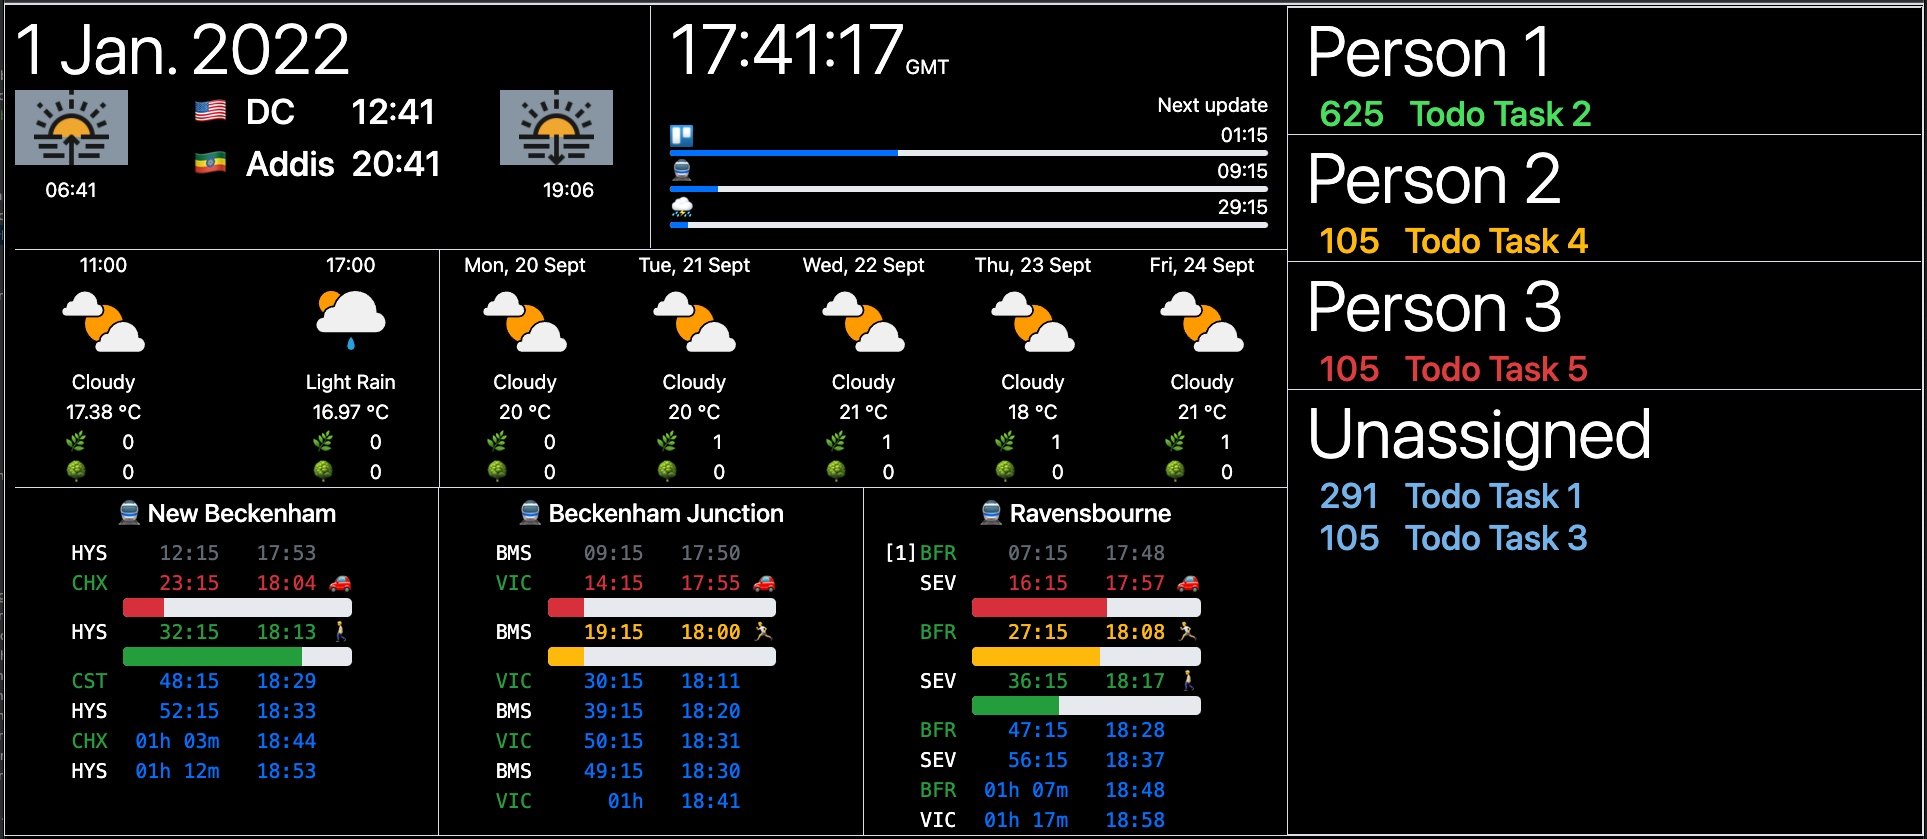
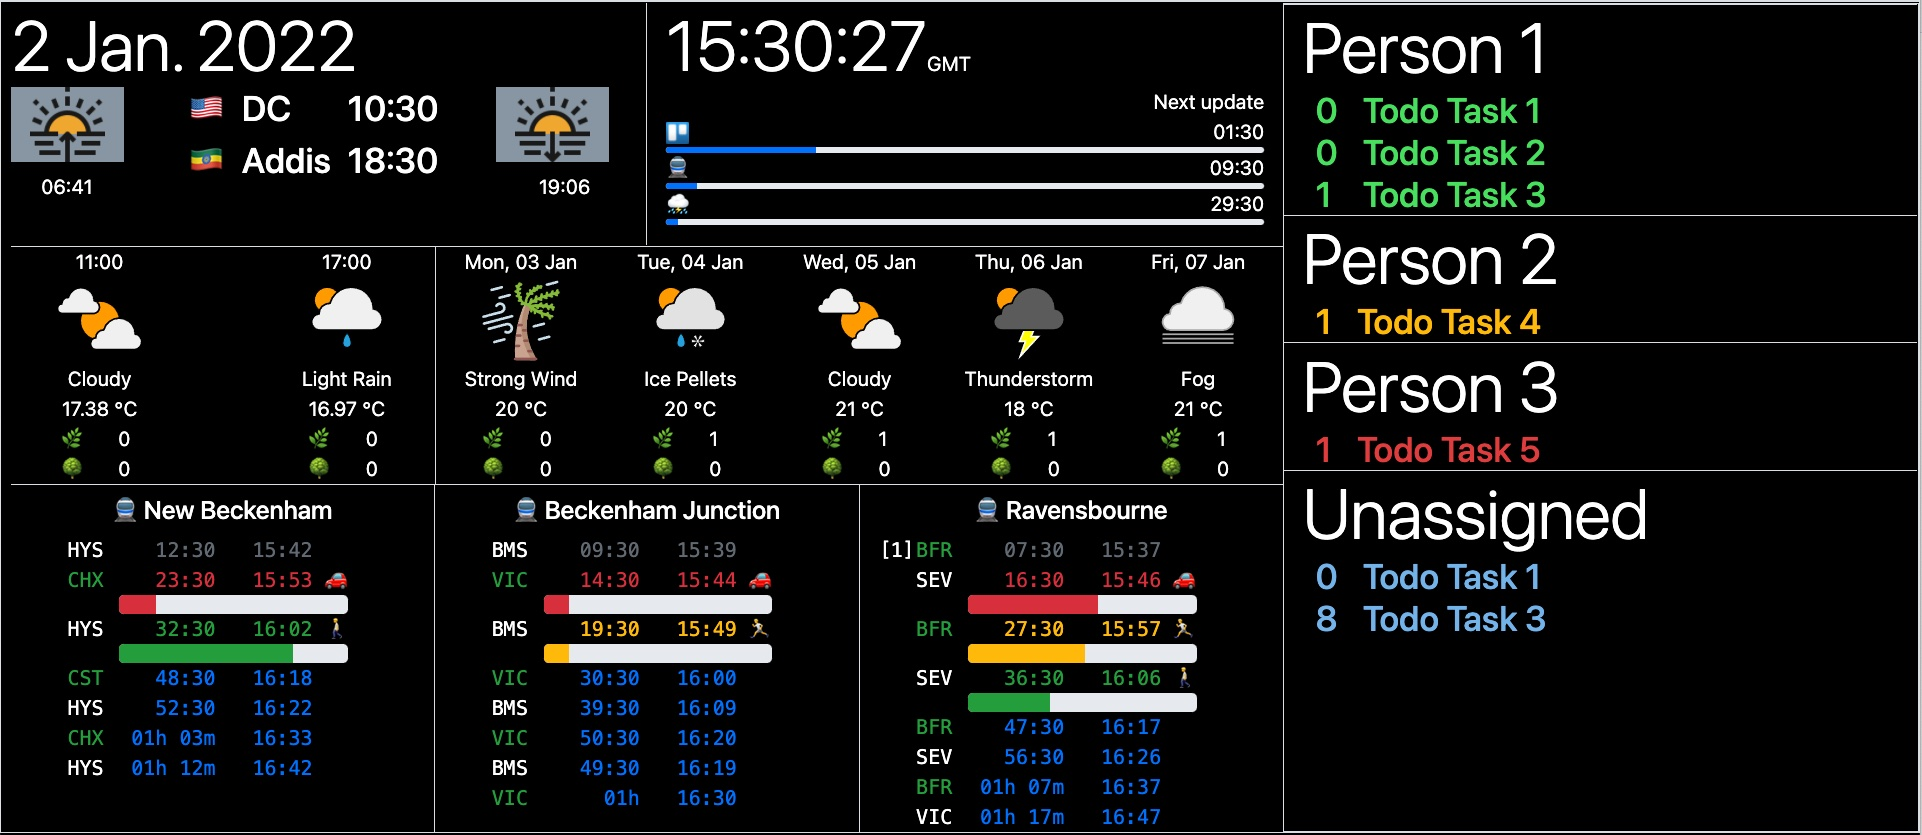
Small refactor, and tidy up of how debug data.

diff --git a/website/js/testing-and-debugging.js b/website/js/testing-and-debugging.js
@@ -78,8 +78,8 @@ function build_link_to_anchors( links ){
 }
 function build_link_toggle_remote_tests(){
     let runningRemoteTests = is_running_remote_tests();
-    let linksList ='<a href="?testing=true&doNotSkipRemoteTests='+ (!runningRemoteTests)+ '">' +(runningRemoteTests?"":"Dont") +
-                                                                                        ' run remote test.</a>';
+    let linksList ='<a href="?testing=true&doNotSkipRemoteTests='+ (!runningRemoteTests)+ '">' +(runningRemoteTests?"Dont r":"R") +
+                                                                                        'un remote test.</a>';
     return linksList;
 }
 
@@ -208,7 +208,7 @@ function set_tasks_on_model_from_remote_data_unit_test(){
         let testResult = (todo.size === 3 &&
                             todo.get('Fikir').length === 1 &&
                             todo.get('Fikir')[0].name === 'Todo Task 1' &&
-                            todo.get('Fikir')[0].dateLastActivity === "2020-04-16T14:12:46.260Z" &&
+                            todo.get('Fikir')[0].daysSinceAssigned === 1 &&
                             todo.get('Unassigned').length === 1 &&
                             todo.get('Henock').length === 2 );
         return {
@@ -221,26 +221,26 @@ function set_tasks_on_model_from_remote_data_unit_test(){
     }
     let data = [{
         name: "Todo Task 1",
-        dateLastActivity: "2020-04-16T14:12:46.260Z",
+        dateLastActivity: "now-24h",
         labels: [{
             name: "Fikir",
         }]
     },{
         name: "Todo Task 1",
-        dateLastActivity: "2020-04-16T14:12:46.260Z",
+        dateLastActivity: "now-10s",
         labels: [{
             name: "Henock",
         }]
     },{
         name: "Todo Task 2",
-        dateLastActivity: "2020-04-16T14:12:46.260Z",
+        dateLastActivity: "now-10s",
         labels: [{
             name: "Henock",
         }]
     },
     {
         name: "Todo Task 1",
-        dateLastActivity: "2021-09-18T15:24:40.921Z",
+        dateLastActivity: "now-200h",
         labels: []
     }]
 
@@ -521,11 +521,11 @@ function common_get_remote_weather_data_unit_test(){
                                 check_for_weather_data, 'not_used', [model, '1d', processResultFunction] );
 
     if(is_running_remote_tests()){
-        result += skip_unit_test( "common_get_remote_weather_data", testCounter, 'a valid response from http://tomorrow.io' );
-    }else{
         model = setup_model(false, false);
         result += run_unit_test( "common_get_remote_weather_data", 'a valid response from http://tomorrow.io',
                                     check_for_weather_data, 'not_used', [model, '1d', processResultFunction] );
+    }else{
+        result += skip_unit_test( "common_get_remote_weather_data", testCounter, 'a valid response from http://tomorrow.io' );
     }
     return result;
 }
@@ -558,10 +558,10 @@ function get_train_station_departures_unit_test(){
     result += run_unit_test( "get_train_station_departures", 'We get data back from /test-data ',  check_for_trains, {}, [startingStation,  model] );
 
     if(is_running_remote_tests()){
-        result += skip_unit_test( "get_train_station_departures", testCounter, 'We get data back from transportApi' );
-    }else{
         model = setup_model(false, false);
         result += run_unit_test( "get_train_station_departures", 'We get data back from transportApi ',  check_for_trains, {}, [startingStation, model] );
+    }else{
+        result += skip_unit_test( "get_train_station_departures", testCounter, 'We get data back from transportApi' );
     }
     return result;
 }
@@ -657,7 +657,7 @@ function download_tasks_unit_test(){
 
     function check_for_tasks( expected, result, parameters ){
         let model = parameters[0];
-        let testResult =  (undefined !== model.data.tasks.todo && model.data.tasks.todo.length > 0 );
+        let testResult =  (undefined !== model.data.tasks.todo && model.data.tasks.todo.size > 0 );
         return {
             passed: testResult,
             expectedValue: 'model.data.tasks.todo is not null',
@@ -665,16 +665,15 @@ function download_tasks_unit_test(){
         }
     }
 
-    //download_tasks( model )
     let result = '';
     let model = setup_model(true, false);
     result += run_unit_test( "download_tasks", 'we get back debugging tasks',  check_for_tasks, 'not used', [model] );
 
     if(is_running_remote_tests()){
-        result += skip_unit_test( "download_tasks", testCounter, 'we get back actual tasks from trello.com' );
-    }else{
         model = setup_model(false, false);
         result += run_unit_test( "download_tasks", 'we get back actual tasks from trello.com',  check_for_tasks, 'not used', [model] );
+    }else{
+        result += skip_unit_test( "download_tasks", testCounter, 'we get back actual tasks from trello.com' );
     }
     return result;
 }

diff --git a/website/js/date-and-time.js b/website/js/date-and-time.js
@@ -118,16 +118,6 @@ function display_time_period_from_seconds_into_future( seconds ){
     }
 }
 
-function set_time_on_date( date, timeAsString ){
-    let hours =  timeAsString.split(":")[0];
-    let minutes =  timeAsString.split(":")[1];
-    date.setHours(parseInt(hours));
-    date.setMinutes(parseInt(minutes));
-    date.setSeconds(0);
-    date.setMilliseconds(0);
-    return date;
-}
-
 function update_all_count_down_times(){
     $(".transport-departure-time").each(function(index, element){
         let timeBoundaries = {}
@@ -159,51 +149,43 @@ function date_with_dashes( date ){
         log_error( "date_with_dashes() date was null - using now");
         date = new Date();
     }
-    let day = pad_with_leading_zero(date.getDate());
-    let month = pad_with_leading_zero(date.getMonth()+1);
+    let day = pad_with_leading_zero(date.getDate());      //date uses starting index of 1
+    let month = pad_with_leading_zero(date.getMonth()+1); //months are zero index
     let year = date.getFullYear();
     return  year + '-' + month + '-' + day;
 }
 
-//str = 'now+20s' OR 'Fri 31 Dec 2021 13:24:14 GMT'
-function date_from_string_only( str, date ){
-    date = date ? date : new Date();
-    if(str.includes( "now" ) || str.includes( "departure" )){
-        return calculate_relative_date( str, date );
-    } else {
-        return new Date( str );
-    }
-}
-
-//str = "now+20s" OR "departure-10m"
+//str = "now+20s" OR "departure-10m OR "Sun  2 Jan 2022 14:35:51 GMT"
 function date_from_string( str , date ){
     date = date ? date : new Date();
     if( str instanceof Date ){
         return str;
     } else if(str.includes( "now" ) || str.includes( "departure" )){
         return calculate_relative_date( str, date );
-    }else{
+    }else if(str.length === "hh:tt".length || str.length === "h:tt".length ){
         return set_time_on_date( date , str );
+    }else{
+        return new Date(str);
     }
 }
 
 function calculate_relative_date( relativeString, date ){
-    let isPlus = relativeString.includes("+");
-    let splitPos = (isPlus ?  relativeString.indexOf('+') : relativeString.indexOf('-'));
-    let amount = relativeString.substring( splitPos +1, relativeString.length-1 );
-    let timeStep = relativeString.substring( relativeString.length-1 );
-    switch(timeStep){
-        case 's': multiple=1;break;
-        case 'm': multiple=60;break;
-        case 'h': multiple=3600;break;
-        default: {
-            multiple=1;
-            log_error( 'Invalid string passed into date_from_string function expected "[now|departure][+|-]{int}[s|m|h]" got: "' + relativeString + '"' );
-        }
-    }
-    seconds = (amount * multiple)
-    seconds *= isPlus ? 1 : -1;
+    let seconds = seconds_from_string( relativeString );
     return date_plus_seconds( date, seconds );
+}
+
+function set_time_on_date( date, timeAsString ){
+    if( timeAsString.length !== "hh:tt".length && timeAsString.length !== "h:tt".length ){
+        log_error("Invalid time AsString passed into set_time_on_date expecting [h]h:mm but instead got: " + timeAsString  + ' using 00:00 on date passed in date=' + date );
+        timeAsString = '00:00';
+    }
+    let hours =  timeAsString.split(":")[0];
+    let minutes =  timeAsString.split(":")[1];
+    date.setHours(parseInt(hours));
+    date.setMinutes(parseInt(minutes));
+    date.setSeconds(0);
+    date.setMilliseconds(0);
+    return date;
 }
 
 //str = "departure-10m"

diff --git a/website/js/tasks.js b/website/js/tasks.js
@@ -24,10 +24,7 @@ function set_tasks_into_ui( model ){
     for (const [groupName, groupsTasks] of sortedTasks ){
         let taskHtml = '';
         groupsTasks.forEach( function( task ){
-            let dateTime = Date.parse(task.dateLastActivity);
-            let diffInMillis = new Date(now - dateTime);
-            let days = Math.floor( diffInMillis/1000/60/60/24 );
-            taskHtml += '<tr class="task-group-'+ groupCounter + ' h3"><td>' + days + '</td><td> ' +task.name+'</td></tr>';
+            taskHtml += '<tr class="task-group-'+ groupCounter + ' h3"><td>' + task.daysSinceAssigned + '</td><td> ' +task.name+'</td></tr>';
         });
         groupLists +=  '<div class="row border-top">' +
                         '<div class="col">' +
@@ -93,9 +90,10 @@ function set_tasks_on_model_from_remote_data( data ){
     $(data).each(function( index, it ){
         let task = {}
         task.name = it.name;
-        let dateTime = (new Date(it.dateLastActivity)).getTime();
+
+        let dateTime = (date_from_string(it.dateLastActivity)).getTime();
         let diffInMillis = new Date(now.getTime() - dateTime);
-        task.dateLastActivity = it.dateLastActivity;
+        task.daysSinceAssigned = Math.floor( diffInMillis/1000/60/60/24 );
 
         let group;
         if( it.labels.length > 0 ){

diff --git a/website/js/family-dashboard.js b/website/js/family-dashboard.js
@@ -54,7 +54,7 @@ function download_last_code_update_file( model ){
     }
 
     get_remote_data( urlToGet, callAsync, model, function( model2, data ){
-        model2.data.reloadDashboardCheck.lastCodeUpdate = date_from_string_only( data.lastCodeUpdate );
+        model2.data.reloadDashboardCheck.lastCodeUpdate = date_from_string( data.lastCodeUpdate );
     }, function( model2, xhr, default_process_error){
         log_error( "Unable to retrieve last-code-update.json from: '" + urlToGet + "'.")
         default_process_error( xhr );
@@ -263,7 +263,7 @@ function get_remote_data( urlToGet, runAsync, model, success_response_parser_fun
             if( fail_response_parser_function ) {
                 fail_response_parser_function( model , xhr , default_process_error);
             }else{
-                process_error( xhr );
+                default_process_error( xhr );
             }
         }
     });

diff --git a/website/js/weather-forecast.js b/website/js/weather-forecast.js
@@ -98,7 +98,7 @@ function update_model_with_weather_next_five_days(model){
         model2.data.weather.today.sunset  = new Date( today.values.sunsetTime).toLocaleString().substring(11,17);
         for (var i = 1; i < 6; i++) {
             let futureDay = response.data.timelines[0].intervals[i];
-            let dateString = new Date(futureDay.startTime).toLocaleString('default', { month: 'short', day: '2-digit' , weekday: 'short'});
+            let dateString = date_from_string(futureDay.startTime).toLocaleString('default', { month: 'short', day: '2-digit' , weekday: 'short'});
             let temperature = Math.round( futureDay.values.temperatureApparent ) + DEGREES_CELSIUS;
             let day = {
                 index: i,

diff --git a/website/js/utils.js b/website/js/utils.js
@@ -37,12 +37,12 @@ function log_info( message, remove_after_seconds ){
 }
 
 function log_error( message, remove_after_seconds ){
-    console.trace();
+    console.trace( message );
     write_message( message, "text-danger border-top border-bottom p-1", remove_after_seconds, false );
 }
 
 function log_warn( message, remove_after_seconds ){
-    console.trace();
+    console.trace( message );
     write_message( message, "text-warning", remove_after_seconds, false  );
 }
 
